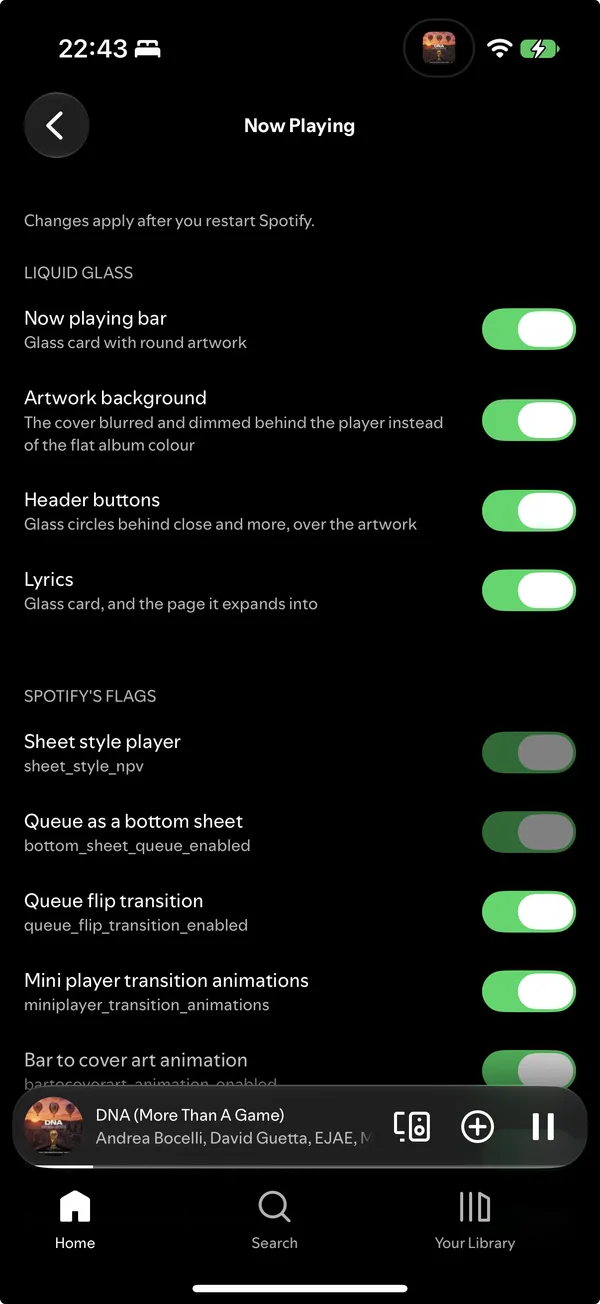
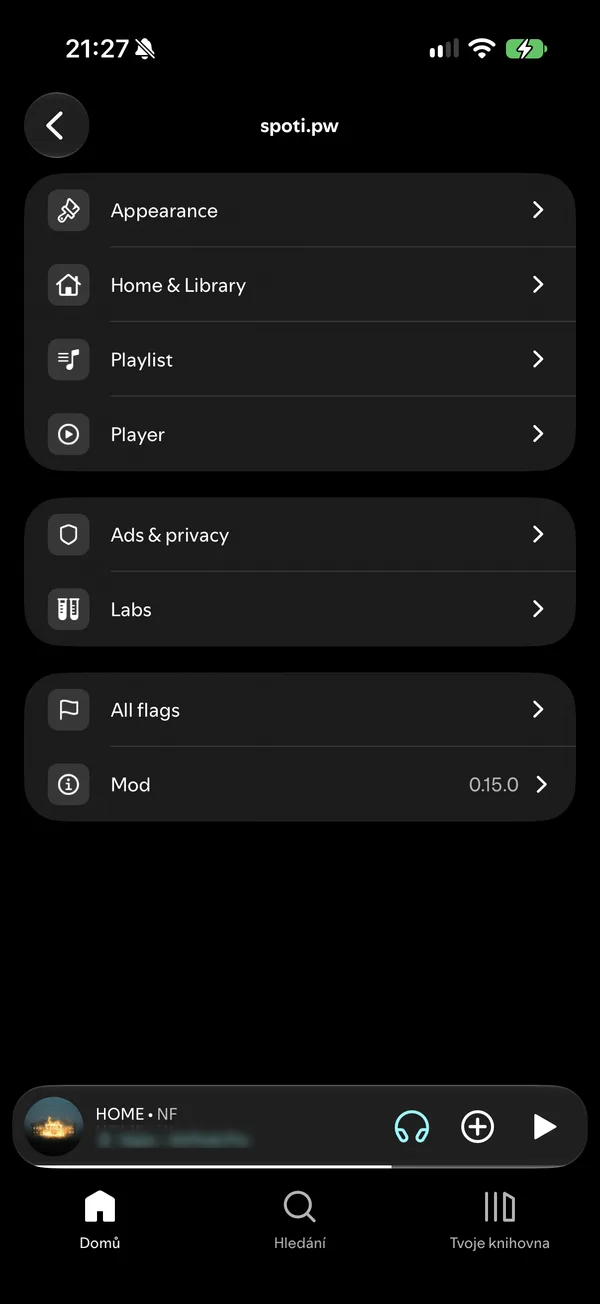
chore: replace screenshots

diff --git a/README.md b/README.md
@@ -24,7 +24,7 @@
 <p align="center">
   <img src="docs/screenshots/now-playing.webp" width="19%" alt="Full screen player">
   <img src="docs/screenshots/queue.webp" width="19%" alt="Queue as a bottom sheet">
-  <img src="docs/screenshots/home.webp" width="19%" alt="Home in AMOLED black">
+  <img src="docs/screenshots/home.webp" width="19%" alt="Home with the gradient">
   <img src="docs/screenshots/navbar.webp" width="19%" alt="Navbar editor">
   <img src="docs/screenshots/settings.webp" width="19%" alt="Mod Settings">
 </p>
